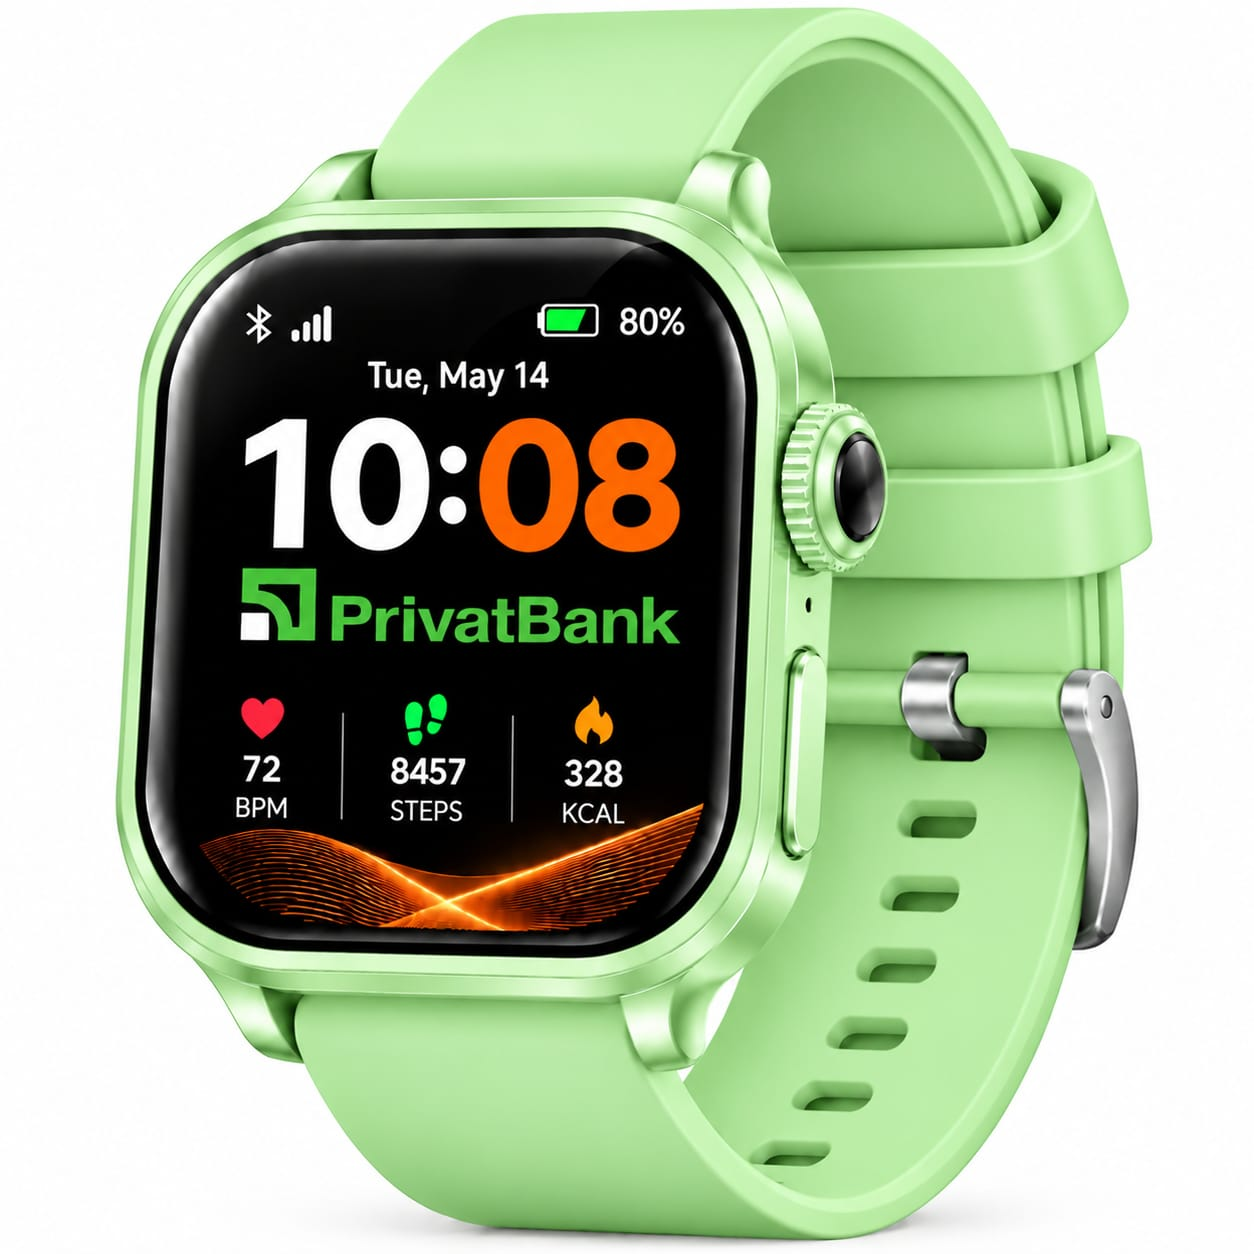
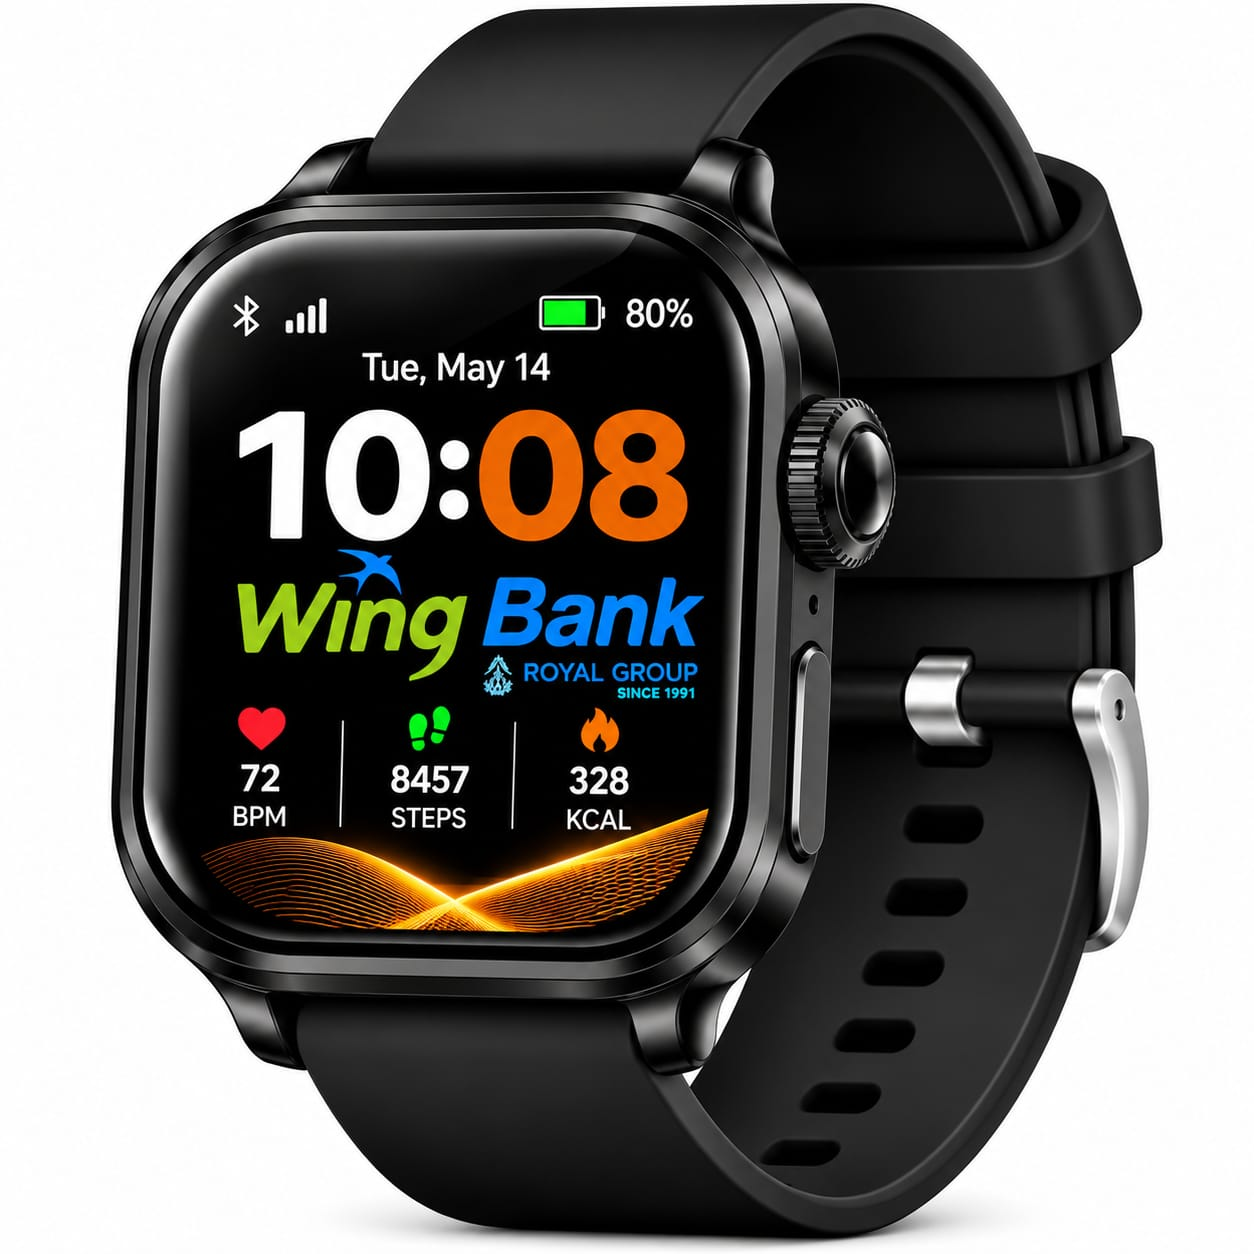
feat: replace watch images with Wing Bank watch designs and update color names
Replaced all 19 watch images with 21 new Wing Bank smartwatch images
in different colors. Updated color name arrays in all HTML files
(index, colors, order, watch-features, admin) for Ukrainian, English
and Arabic languages.

diff --git a/public/colors.html b/public/colors.html
@@ -80,25 +80,27 @@
 
 <script>
   const watches = [
-    {img:"images/1.jpg",  name:"М'ятний"},
-    {img:"images/2.jpg",  name:"Гірчичний"},
-    {img:"images/3.jpg",  name:"Червоний"},
-    {img:"images/4.jpg",  name:"Фіолетовий"},
-    {img:"images/5.jpg",  name:"Оранжевий"},
-    {img:"images/6.jpg",  name:"Світло-коричневий"},
-    {img:"images/7.jpg",  name:"Темно-оранжевий"},
-    {img:"images/8.jpg",  name:"Небесно-блакитний"},
-    {img:"images/9.jpg",  name:"Військовий зелений"},
-    {img:"images/10.jpg", name:"Золотий з чорним"},
-    {img:"images/11.jpg", name:"Червоний з чорним"},
-    {img:"images/12.jpg", name:"Чорний із зеленим"},
-    {img:"images/13.jpg", name:"Бордовий"},
-    {img:"images/14.jpg", name:"Прозорий"},
-    {img:"images/15.jpg", name:"Карамельний"},
-    {img:"images/16.jpg", name:"Рожеве золото"},
-    {img:"images/17.jpg", name:"Королівський синій"},
-    {img:"images/18.jpg", name:"Темно-синій"},
-    {img:"images/19.jpg", name:"Шоколадний"},
+    {img:"images/1.jpg",  name:"Чорний"},
+    {img:"images/2.jpg",  name:"Небесно-блакитний"},
+    {img:"images/3.jpg",  name:"Королівський синій"},
+    {img:"images/4.jpg",  name:"Оливковий"},
+    {img:"images/5.jpg",  name:"Зелений"},
+    {img:"images/6.jpg",  name:"Червоний"},
+    {img:"images/7.jpg",  name:"Помаранчевий"},
+    {img:"images/8.jpg",  name:"Шоколадний"},
+    {img:"images/9.jpg",  name:"Бежевий"},
+    {img:"images/10.jpg", name:"Золотий жовтий"},
+    {img:"images/11.jpg", name:"Фіолетовий"},
+    {img:"images/12.jpg", name:"Білий"},
+    {img:"images/13.jpg", name:"Лавандовий"},
+    {img:"images/14.jpg", name:"Золотий"},
+    {img:"images/15.jpg", name:"Фуксія"},
+    {img:"images/16.jpg", name:"Рожевий"},
+    {img:"images/17.jpg", name:"Ніжно-рожевий"},
+    {img:"images/18.jpg", name:"Світло-лавандовий"},
+    {img:"images/19.jpg", name:"Темно-синій"},
+    {img:"images/20.jpg", name:"Сріблястий"},
+    {img:"images/21.jpg", name:"Жовтий"},
   ];
   const grid = document.getElementById("grid");
   const bar  = document.getElementById("continueBar");

diff --git a/public/index.html b/public/index.html
@@ -743,25 +743,27 @@
 
 <script>
   const watches = [
-    {img:"images/1.jpg",  name:"М'ятний"},
-    {img:"images/2.jpg",  name:"Гірчичний"},
-    {img:"images/3.jpg",  name:"Червоний"},
-    {img:"images/4.jpg",  name:"Фіолетовий"},
-    {img:"images/5.jpg",  name:"Оранжевий"},
-    {img:"images/6.jpg",  name:"Світло-коричневий"},
-    {img:"images/7.jpg",  name:"Темно-оранжевий"},
-    {img:"images/8.jpg",  name:"Небесно-блакитний"},
-    {img:"images/9.jpg",  name:"Військовий зелений"},
-    {img:"images/10.jpg", name:"Золотий з чорним"},
-    {img:"images/11.jpg", name:"Червоний з чорним"},
-    {img:"images/12.jpg", name:"Чорний із зеленим"},
-    {img:"images/13.jpg", name:"Бордовий"},
-    {img:"images/14.jpg", name:"Прозорий"},
-    {img:"images/15.jpg", name:"Карамельний"},
-    {img:"images/16.jpg", name:"Рожеве золото"},
-    {img:"images/17.jpg", name:"Королівський синій"},
-    {img:"images/18.jpg", name:"Темно-синій"},
-    {img:"images/19.jpg", name:"Шоколадний"},
+    {img:"images/1.jpg",  name:"Чорний"},
+    {img:"images/2.jpg",  name:"Небесно-блакитний"},
+    {img:"images/3.jpg",  name:"Королівський синій"},
+    {img:"images/4.jpg",  name:"Оливковий"},
+    {img:"images/5.jpg",  name:"Зелений"},
+    {img:"images/6.jpg",  name:"Червоний"},
+    {img:"images/7.jpg",  name:"Помаранчевий"},
+    {img:"images/8.jpg",  name:"Шоколадний"},
+    {img:"images/9.jpg",  name:"Бежевий"},
+    {img:"images/10.jpg", name:"Золотий жовтий"},
+    {img:"images/11.jpg", name:"Фіолетовий"},
+    {img:"images/12.jpg", name:"Білий"},
+    {img:"images/13.jpg", name:"Лавандовий"},
+    {img:"images/14.jpg", name:"Золотий"},
+    {img:"images/15.jpg", name:"Фуксія"},
+    {img:"images/16.jpg", name:"Рожевий"},
+    {img:"images/17.jpg", name:"Ніжно-рожевий"},
+    {img:"images/18.jpg", name:"Світло-лавандовий"},
+    {img:"images/19.jpg", name:"Темно-синій"},
+    {img:"images/20.jpg", name:"Сріблястий"},
+    {img:"images/21.jpg", name:"Жовтий"},
   ];
 
   const heroImg = document.getElementById("heroImg");

diff --git a/public/en/colors.html b/public/en/colors.html
@@ -80,25 +80,27 @@
 
 <script>
   const watches = [
-    {img:"/images/1.jpg",  name:"Mint"},
-    {img:"/images/2.jpg",  name:"Mustard Yellow"},
-    {img:"/images/3.jpg",  name:"Red"},
-    {img:"/images/4.jpg",  name:"Purple"},
-    {img:"/images/5.jpg",  name:"Orange"},
-    {img:"/images/6.jpg",  name:"Light Brown"},
-    {img:"/images/7.jpg",  name:"Burnt Orange"},
-    {img:"/images/8.jpg",  name:"Sky Blue"},
-    {img:"/images/9.jpg",  name:"Military Green"},
-    {img:"/images/10.jpg", name:"Gold with Black"},
-    {img:"/images/11.jpg", name:"Red with Black"},
-    {img:"/images/12.jpg", name:"Black with Green"},
-    {img:"/images/13.jpg", name:"Burgundy"},
-    {img:"/images/14.jpg", name:"Transparent"},
-    {img:"/images/15.jpg", name:"Caramel"},
-    {img:"/images/16.jpg", name:"Rose Gold"},
-    {img:"/images/17.jpg", name:"Royal Blue"},
-    {img:"/images/18.jpg", name:"Navy Blue"},
-    {img:"/images/19.jpg", name:"Chocolate"},
+    {img:"/images/1.jpg",  name:"Black"},
+    {img:"/images/2.jpg",  name:"Sky Blue"},
+    {img:"/images/3.jpg",  name:"Royal Blue"},
+    {img:"/images/4.jpg",  name:"Olive Green"},
+    {img:"/images/5.jpg",  name:"Green"},
+    {img:"/images/6.jpg",  name:"Red"},
+    {img:"/images/7.jpg",  name:"Orange"},
+    {img:"/images/8.jpg",  name:"Chocolate"},
+    {img:"/images/9.jpg",  name:"Beige"},
+    {img:"/images/10.jpg", name:"Gold Yellow"},
+    {img:"/images/11.jpg", name:"Purple"},
+    {img:"/images/12.jpg", name:"White"},
+    {img:"/images/13.jpg", name:"Lavender"},
+    {img:"/images/14.jpg", name:"Gold"},
+    {img:"/images/15.jpg", name:"Fuchsia"},
+    {img:"/images/16.jpg", name:"Pink"},
+    {img:"/images/17.jpg", name:"Light Pink"},
+    {img:"/images/18.jpg", name:"Light Lavender"},
+    {img:"/images/19.jpg", name:"Navy Blue"},
+    {img:"/images/20.jpg", name:"Silver"},
+    {img:"/images/21.jpg", name:"Yellow"},
   ];
   const grid = document.getElementById("grid");
   const bar  = document.getElementById("continueBar");

diff --git a/public/en/watch-features.html b/public/en/watch-features.html
@@ -142,25 +142,27 @@
 
 <script>
   const watches = [
-    {img:"/images/1.jpg",  name:"Mint"},
-    {img:"/images/2.jpg",  name:"Mustard Yellow"},
-    {img:"/images/3.jpg",  name:"Red"},
-    {img:"/images/4.jpg",  name:"Purple"},
-    {img:"/images/5.jpg",  name:"Orange"},
-    {img:"/images/6.jpg",  name:"Light Brown"},
-    {img:"/images/7.jpg",  name:"Burnt Orange"},
-    {img:"/images/8.jpg",  name:"Sky Blue"},
-    {img:"/images/9.jpg",  name:"Military Green"},
-    {img:"/images/10.jpg", name:"Gold with Black"},
-    {img:"/images/11.jpg", name:"Red with Black"},
-    {img:"/images/12.jpg", name:"Black with Green"},
-    {img:"/images/13.jpg", name:"Burgundy"},
-    {img:"/images/14.jpg", name:"Transparent"},
-    {img:"/images/15.jpg", name:"Caramel"},
-    {img:"/images/16.jpg", name:"Rose Gold"},
-    {img:"/images/17.jpg", name:"Royal Blue"},
-    {img:"/images/18.jpg", name:"Navy Blue"},
-    {img:"/images/19.jpg", name:"Chocolate"},
+    {img:"/images/1.jpg",  name:"Black"},
+    {img:"/images/2.jpg",  name:"Sky Blue"},
+    {img:"/images/3.jpg",  name:"Royal Blue"},
+    {img:"/images/4.jpg",  name:"Olive Green"},
+    {img:"/images/5.jpg",  name:"Green"},
+    {img:"/images/6.jpg",  name:"Red"},
+    {img:"/images/7.jpg",  name:"Orange"},
+    {img:"/images/8.jpg",  name:"Chocolate"},
+    {img:"/images/9.jpg",  name:"Beige"},
+    {img:"/images/10.jpg", name:"Gold Yellow"},
+    {img:"/images/11.jpg", name:"Purple"},
+    {img:"/images/12.jpg", name:"White"},
+    {img:"/images/13.jpg", name:"Lavender"},
+    {img:"/images/14.jpg", name:"Gold"},
+    {img:"/images/15.jpg", name:"Fuchsia"},
+    {img:"/images/16.jpg", name:"Pink"},
+    {img:"/images/17.jpg", name:"Light Pink"},
+    {img:"/images/18.jpg", name:"Light Lavender"},
+    {img:"/images/19.jpg", name:"Navy Blue"},
+    {img:"/images/20.jpg", name:"Silver"},
+    {img:"/images/21.jpg", name:"Yellow"},
   ];
 
   const params = new URLSearchParams(location.search);

diff --git a/public/en/index.html b/public/en/index.html
@@ -743,25 +743,27 @@
 
 <script>
   const watches = [
-    {img:"/images/1.jpg",  name:"Mint"},
-    {img:"/images/2.jpg",  name:"Mustard Yellow"},
-    {img:"/images/3.jpg",  name:"Red"},
-    {img:"/images/4.jpg",  name:"Purple"},
-    {img:"/images/5.jpg",  name:"Orange"},
-    {img:"/images/6.jpg",  name:"Light Brown"},
-    {img:"/images/7.jpg",  name:"Burnt Orange"},
-    {img:"/images/8.jpg",  name:"Sky Blue"},
-    {img:"/images/9.jpg",  name:"Military Green"},
-    {img:"/images/10.jpg", name:"Gold with Black"},
-    {img:"/images/11.jpg", name:"Red with Black"},
-    {img:"/images/12.jpg", name:"Black with Green"},
-    {img:"/images/13.jpg", name:"Burgundy"},
-    {img:"/images/14.jpg", name:"Transparent"},
-    {img:"/images/15.jpg", name:"Caramel"},
-    {img:"/images/16.jpg", name:"Rose Gold"},
-    {img:"/images/17.jpg", name:"Royal Blue"},
-    {img:"/images/18.jpg", name:"Navy Blue"},
-    {img:"/images/19.jpg", name:"Chocolate"},
+    {img:"/images/1.jpg",  name:"Black"},
+    {img:"/images/2.jpg",  name:"Sky Blue"},
+    {img:"/images/3.jpg",  name:"Royal Blue"},
+    {img:"/images/4.jpg",  name:"Olive Green"},
+    {img:"/images/5.jpg",  name:"Green"},
+    {img:"/images/6.jpg",  name:"Red"},
+    {img:"/images/7.jpg",  name:"Orange"},
+    {img:"/images/8.jpg",  name:"Chocolate"},
+    {img:"/images/9.jpg",  name:"Beige"},
+    {img:"/images/10.jpg", name:"Gold Yellow"},
+    {img:"/images/11.jpg", name:"Purple"},
+    {img:"/images/12.jpg", name:"White"},
+    {img:"/images/13.jpg", name:"Lavender"},
+    {img:"/images/14.jpg", name:"Gold"},
+    {img:"/images/15.jpg", name:"Fuchsia"},
+    {img:"/images/16.jpg", name:"Pink"},
+    {img:"/images/17.jpg", name:"Light Pink"},
+    {img:"/images/18.jpg", name:"Light Lavender"},
+    {img:"/images/19.jpg", name:"Navy Blue"},
+    {img:"/images/20.jpg", name:"Silver"},
+    {img:"/images/21.jpg", name:"Yellow"},
   ];
 
   const heroImg = document.getElementById("heroImg");

diff --git a/public/admin.html b/public/admin.html
@@ -341,16 +341,17 @@ function countryDisplay(code) {
 }
 
 const watches = [
-  {img:"images/1.jpg",name:"نعناعي"},{img:"images/2.jpg",name:"أصفر خردلي"},
-  {img:"images/3.jpg",name:"أحمر"},{img:"images/4.jpg",name:"بنفسجي"},
-  {img:"images/5.jpg",name:"برتقالي"},{img:"images/6.jpg",name:"بني فاتح"},
-  {img:"images/7.jpg",name:"برتقالي محروق"},{img:"images/8.jpg",name:"أزرق سماوي"},
-  {img:"images/9.jpg",name:"أخضر عسكري"},{img:"images/10.jpg",name:"ذهبي بإطار أسود"},
-  {img:"images/11.jpg",name:"أحمر بإطار أسود"},{img:"images/12.jpg",name:"أسود بإطار أخضر"},
-  {img:"images/13.jpg",name:"عنابي"},{img:"images/14.jpg",name:"شفاف"},
-  {img:"images/15.jpg",name:"بني كراميل"},{img:"images/16.jpg",name:"ذهبي وردي"},
-  {img:"images/17.jpg",name:"أزرق ملكي"},{img:"images/18.jpg",name:"كحلي"},
-  {img:"images/19.jpg",name:"شوكولاتي"}
+  {img:"images/1.jpg",name:"أسود"},{img:"images/2.jpg",name:"أزرق سماوي"},
+  {img:"images/3.jpg",name:"أزرق ملكي"},{img:"images/4.jpg",name:"أخضر زيتوني"},
+  {img:"images/5.jpg",name:"أخضر"},{img:"images/6.jpg",name:"أحمر"},
+  {img:"images/7.jpg",name:"برتقالي"},{img:"images/8.jpg",name:"شوكولاتي"},
+  {img:"images/9.jpg",name:"بيج"},{img:"images/10.jpg",name:"ذهبي أصفر"},
+  {img:"images/11.jpg",name:"بنفسجي"},{img:"images/12.jpg",name:"أبيض"},
+  {img:"images/13.jpg",name:"لافندر"},{img:"images/14.jpg",name:"ذهبي"},
+  {img:"images/15.jpg",name:"فوشيا"},{img:"images/16.jpg",name:"وردي"},
+  {img:"images/17.jpg",name:"وردي فاتح"},{img:"images/18.jpg",name:"لافندر فاتح"},
+  {img:"images/19.jpg",name:"كحلي"},{img:"images/20.jpg",name:"فضي"},
+  {img:"images/21.jpg",name:"أصفر"}
 ];
 
 const pageLabels = {

diff --git a/public/en/order.html b/public/en/order.html
@@ -179,16 +179,17 @@
   })();
 
   const watches = [
-    {img:"/images/1.jpg",name:"Mint"},{img:"/images/2.jpg",name:"Mustard Yellow"},
-    {img:"/images/3.jpg",name:"Red"},{img:"/images/4.jpg",name:"Purple"},
-    {img:"/images/5.jpg",name:"Orange"},{img:"/images/6.jpg",name:"Light Brown"},
-    {img:"/images/7.jpg",name:"Burnt Orange"},{img:"/images/8.jpg",name:"Sky Blue"},
-    {img:"/images/9.jpg",name:"Military Green"},{img:"/images/10.jpg",name:"Gold with Black"},
-    {img:"/images/11.jpg",name:"Red with Black"},{img:"/images/12.jpg",name:"Black with Green"},
-    {img:"/images/13.jpg",name:"Burgundy"},{img:"/images/14.jpg",name:"Transparent"},
-    {img:"/images/15.jpg",name:"Caramel"},{img:"/images/16.jpg",name:"Rose Gold"},
-    {img:"/images/17.jpg",name:"Royal Blue"},{img:"/images/18.jpg",name:"Navy Blue"},
-    {img:"/images/19.jpg",name:"Chocolate"}
+    {img:"/images/1.jpg",name:"Black"},{img:"/images/2.jpg",name:"Sky Blue"},
+    {img:"/images/3.jpg",name:"Royal Blue"},{img:"/images/4.jpg",name:"Olive Green"},
+    {img:"/images/5.jpg",name:"Green"},{img:"/images/6.jpg",name:"Red"},
+    {img:"/images/7.jpg",name:"Orange"},{img:"/images/8.jpg",name:"Chocolate"},
+    {img:"/images/9.jpg",name:"Beige"},{img:"/images/10.jpg",name:"Gold Yellow"},
+    {img:"/images/11.jpg",name:"Purple"},{img:"/images/12.jpg",name:"White"},
+    {img:"/images/13.jpg",name:"Lavender"},{img:"/images/14.jpg",name:"Gold"},
+    {img:"/images/15.jpg",name:"Fuchsia"},{img:"/images/16.jpg",name:"Pink"},
+    {img:"/images/17.jpg",name:"Light Pink"},{img:"/images/18.jpg",name:"Light Lavender"},
+    {img:"/images/19.jpg",name:"Navy Blue"},{img:"/images/20.jpg",name:"Silver"},
+    {img:"/images/21.jpg",name:"Yellow"}
   ];
   const pick = parseInt(new URLSearchParams(location.search).get("w"));
   if(!isNaN(pick) && watches[pick]){

diff --git a/public/order.html b/public/order.html
@@ -179,16 +179,17 @@
   })();
 
   const watches = [
-    {img:"images/1.jpg",name:"Mint"},{img:"images/2.jpg",name:"Mustard Yellow"},
-    {img:"images/3.jpg",name:"Red"},{img:"images/4.jpg",name:"Purple"},
-    {img:"images/5.jpg",name:"Orange"},{img:"images/6.jpg",name:"Light Brown"},
-    {img:"images/7.jpg",name:"Burnt Orange"},{img:"images/8.jpg",name:"Sky Blue"},
-    {img:"images/9.jpg",name:"Military Green"},{img:"images/10.jpg",name:"Gold with Black"},
-    {img:"images/11.jpg",name:"Red with Black"},{img:"images/12.jpg",name:"Black with Green"},
-    {img:"images/13.jpg",name:"Burgundy"},{img:"images/14.jpg",name:"Transparent"},
-    {img:"images/15.jpg",name:"Caramel"},{img:"images/16.jpg",name:"Rose Gold"},
-    {img:"images/17.jpg",name:"Royal Blue"},{img:"images/18.jpg",name:"Navy Blue"},
-    {img:"images/19.jpg",name:"Chocolate"}
+    {img:"images/1.jpg",name:"Black"},{img:"images/2.jpg",name:"Sky Blue"},
+    {img:"images/3.jpg",name:"Royal Blue"},{img:"images/4.jpg",name:"Olive Green"},
+    {img:"images/5.jpg",name:"Green"},{img:"images/6.jpg",name:"Red"},
+    {img:"images/7.jpg",name:"Orange"},{img:"images/8.jpg",name:"Chocolate"},
+    {img:"images/9.jpg",name:"Beige"},{img:"images/10.jpg",name:"Gold Yellow"},
+    {img:"images/11.jpg",name:"Purple"},{img:"images/12.jpg",name:"White"},
+    {img:"images/13.jpg",name:"Lavender"},{img:"images/14.jpg",name:"Gold"},
+    {img:"images/15.jpg",name:"Fuchsia"},{img:"images/16.jpg",name:"Pink"},
+    {img:"images/17.jpg",name:"Light Pink"},{img:"images/18.jpg",name:"Light Lavender"},
+    {img:"images/19.jpg",name:"Navy Blue"},{img:"images/20.jpg",name:"Silver"},
+    {img:"images/21.jpg",name:"Yellow"}
   ];
   const pick = parseInt(new URLSearchParams(location.search).get("w"));
   if(!isNaN(pick) && watches[pick]){
